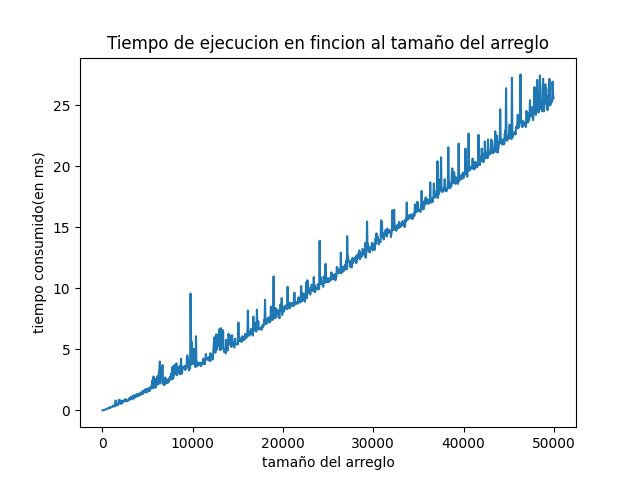
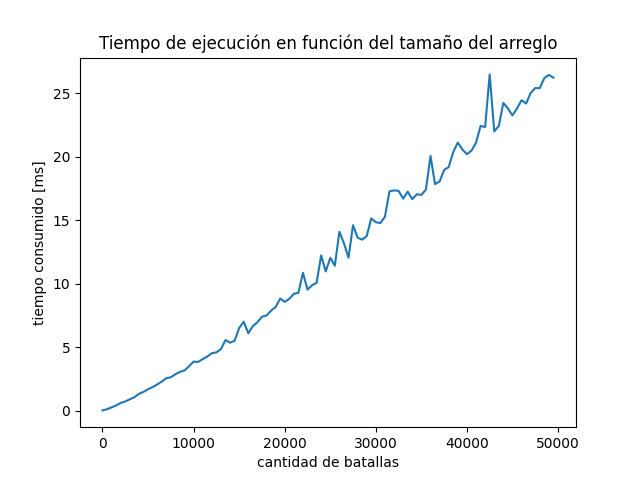
plots update

diff --git a/plot_variabilidad.py b/plot_variabilidad.py
@@ -1,0 +1,51 @@
+from time import perf_counter
+from random import uniform
+from main import get_orden_optimo, calcular_coeficiente
+import matplotlib.pyplot as plt
+
+tamanos_datos = [x for x in range(10, 50000, 500)]
+tiempos_importancia_cte = []
+tiempos_duracion_cte = []
+tiempos_relacion_cte = []
+
+for n in tamanos_datos:
+    batallas = [(uniform(1, 1000), 1) for _ in range(n)]
+    start = perf_counter()
+    solucion = get_orden_optimo(batallas)
+    calcular_coeficiente(solucion)
+    fin = perf_counter()
+    tiempo_ms = (fin - start)*1000
+    tiempos_importancia_cte.append(tiempo_ms)
+
+for n in tamanos_datos:
+    batallas = [(1, uniform(0, 1000)) for _ in range(n)]
+    start = perf_counter()
+    solucion = get_orden_optimo(batallas)
+    calcular_coeficiente(solucion)
+    fin = perf_counter()
+    tiempo_ms = (fin - start)*1000
+    tiempos_duracion_cte.append(tiempo_ms)
+
+for n in tamanos_datos:
+    batallas = []
+    for _ in range(n):
+        t = uniform(1, 1000)
+        b = 2*t
+        batallas.append((t, b))
+
+    start = perf_counter()
+    solucion = get_orden_optimo(batallas)
+    calcular_coeficiente(solucion)
+    fin = perf_counter()
+    tiempo_ms = (fin - start)*1000
+    tiempos_relacion_cte.append(tiempo_ms)
+
+plt.title("Analisis de variabilidad")
+plt.xlabel("cantidad de batallas")
+plt.ylabel("tiempo consumido [ms]")
+plt.plot(tamanos_datos, tiempos_importancia_cte, label='importancia constante')
+plt.plot(tamanos_datos, tiempos_duracion_cte, label='duracion constante')
+plt.plot(tamanos_datos, tiempos_relacion_cte, label='relacion b/t constante')
+plt.legend()
+plt.savefig("img/grafico_variabilidad.png")
+plt.show()

diff --git a/plot.py b/plot.py
@@ -1,17 +1,17 @@
-import time
-import random
+from time import perf_counter
+from random import uniform
 from main import get_orden_optimo, calcular_coeficiente
 import matplotlib.pyplot as plt
 
-tamanos_datos = [x for x in range(10, 50000, 50)]
+tamanos_datos = [x for x in range(10, 50000, 500)]
 tiempos_ejecucion = []
 
 for n in tamanos_datos:
-    batallas = [(random.randint(1, 1000), random.randint(0, 1000)) for _ in range(n)]
-    start = time.perf_counter()
+    batallas = [(uniform(1, 1000), uniform(0, 1000)) for _ in range(n)]
+    start = perf_counter()
     solucion = get_orden_optimo(batallas)
     calcular_coeficiente(solucion)
-    fin = time.perf_counter()
+    fin = perf_counter()
     tiempo_ms = (fin - start)*1000
     tiempos_ejecucion.append(tiempo_ms)
 
